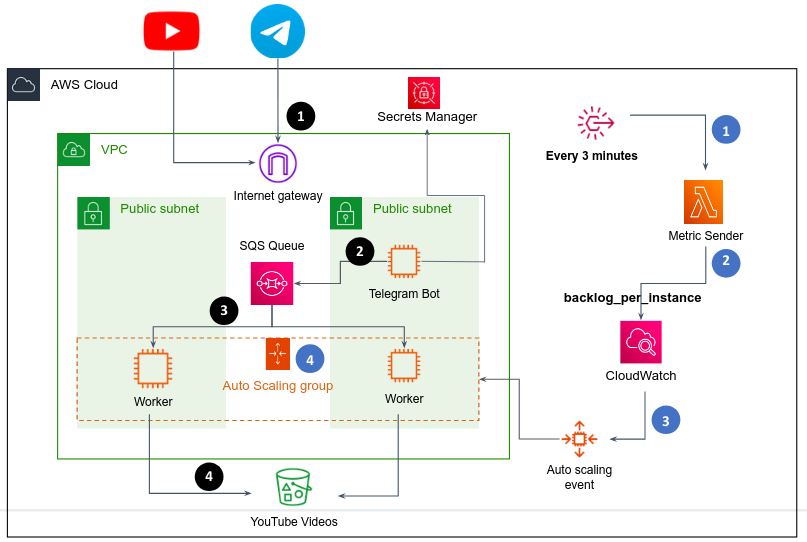
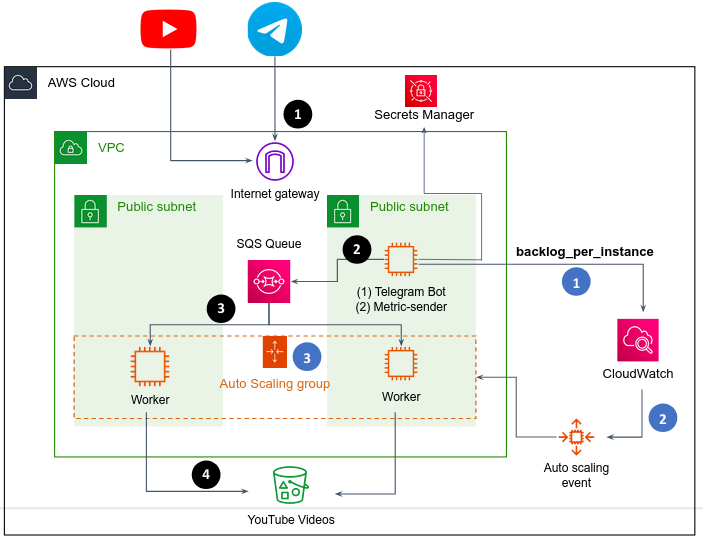
aws ex wip

Changed region(s): [[0.0, 0.0, 1.0, 1.0], [0.478, 0.8856, 0.5676, 0.9151]]

diff --git a/exercises/aws_ex1.md b/exercises/aws_ex1.md
@@ -18,8 +18,10 @@ So, the Bot service is a very lightweight app that can serve hundreds requests p
 In the other side, there are Worker service (run as a Docker container in the Worker EC2 instance) **consumes** jobs from the SQS queue (3-black) and does the hard work - to download the video from YouTube and upload it to S3 (4-black). When the Worker done with current job, it asks the SQS queue if it has another job for him. As long as there are jobs pending in the queue, a free Worker will consume and perform the job. In such way the Bot service pushes jobs to the SQS queue, making it "full", while the Worker service consumes jobs from the queue, making it "empty".
 
 But what if the rate in which the Bot service is pushing jobs to the queue is much higher than the rate the Worker completing jobs? In such case the queue will overflow...
-To solve that, we will create multiple workers that together consume jobs from the queue. How many workers? we will deploy a dynamic model **that auto-scale the number of workers** depending on the number of messages in the queue. When there are a lot of jobs in the queue, the autoscaler will provision many workers. When there are only a few jobs in the queue, the autoscaler will provision fewer workers.
-The Workers are part of an AutoScaling group, which is scaled in and out by a custom metric that the Metric Sender service (run as a Docker container in a Lambda function) writes to CloudWatch (2-blue) every 3 minutes (1-blue). CloudWatch will trigger an autoscale event (3-blue) when needed, which results in provisioning of another Worker instance, or terminate a redundant Worker instance (4-blue). 
+To solve that, we will create multiple workers that together consume jobs from the queue. How many workers? we will deploy a dynamic model **that auto-scale the number of workers** depending on the number of messages in the queue. 
+When there are a lot of jobs in the queue, the autoscaler will provision many workers. 
+When there are only a few jobs in the queue, the autoscaler will provision fewer workers.
+The Workers are part of an AutoScaling group, which is scaled in and out by a custom metric that the Metric Sender service (run as a Docker container as well on the same VM as the Bot service) writes to CloudWatch every 1 minute (1-blue). CloudWatch will trigger an autoscale event (2-blue) when needed, which results in provisioning of another Worker instance, or terminate a redundant Worker instance (3-blue). 
 
 The metric sent to CloudWatch can be called `BacklogPerInstance`, as it represents the number of jobs in the queue (jobs that was not consumed yet) per Worker instance.
 For example, assuming you have 5 workers up and running, and 100 messages in the queue, thus `BacklogPerInstance` equals 20, since each Worker instance has to consume ~20 messages to get the queue empty. For more information, read [here](https://docs.aws.amazon.com/autoscaling/ec2/userguide/as-using-sqs-queue.html).
@@ -47,18 +49,15 @@ git checkout -b microservices upstream/microservices
 
 From now on, throughout the exercise you should work on your `microservices` branch. 
 
-### Microservices review 
+### The TelegramAI repo structure 
+
+The repository structure is divided into services - each service under its own directory, while all services are sharing the `common` directory, which contains resources used by all services.
 
 1. `bot/app.py` - The Telegram bot code, similar to what you've implemented in the previous exercise. But this time, the bot doesn't download the videos itself, but sends a "job" to an SQS queue.
 2. `worker/app.py` - The Worker service continuously reads messages from the SQS queue and process them, which means download the video from YouTube and store it in a dedicated S3 bucket.
 3. `metric-sender/app.py` - The Metric Sender service calculate the `backlog_per_instance` metric and send it to CloudWatch.
 
-Each service has its own Dockerfile in the root directory of the repo: `bot.Dockerfile` for the bot, `worker.Dockerfile` for the worker, and `metric-sender.Dockerfile` for the metric-sender.
-For example, you can build the Metric Sender image by:
-```shell
-# execute from the root directory of the repo
-docker build -t metric-sender:1.0 -f metric-sender.Dockerfile .
-```
+Each service has its own Dockerfile. You are responsible to implement the Dockerfiles.
 
 ## Guidelines
 
@@ -76,12 +75,6 @@ docker build -t metric-sender:1.0 -f metric-sender.Dockerfile .
 
 ![](img/secretmanagertelegram.png)
 
-6. Create a Lambda function for the Metric-sender app.
-   1. In order to do so, first you need to build and push a Docker image on Elastic Container Registry (ECR). Create a private ECR.
-   2. On your local machine, build the image of the Metric Sender (according to `metric-sender.Dockerfile`. It's already implemented, no need to touch) and push it to your ECR registry. In [Amazon ECR console](https://console.aws.amazon.com/ecr/repositories), select the repository that you created and choose **View push commands** to view the steps to build and push an image from your local machine to your new repository\.
-   3. Create a Lambda function based on your container image.
-
-
 ### The Code
 
 7. Change `common/config.json` according to your resources in AWS. This file is being used by the different services, hence it is located under `common` directory, which contains resource that are shared by the services.  
@@ -98,21 +91,17 @@ docker build -t metric-sender:1.0 -f metric-sender.Dockerfile .
 
 9. After you've implemented the code changes, it is good idea to test everything locally. Run the `bot/app.py` service and a single worker `worker/app.py`. Make sure that when you send a message via Telegram, the Bot service produces a message to the SQS queue, and the Worker consumes the message, downloads the YouTube video and uploads it to S3.
 
-> Note   
-> All services should be run from the root directory of the project!
-> For the convenience of PyCharm users, the services run configurations already there, just choose the service and run it.   
-> ![](img/awsbotrc.png)
-
 ### Deploy the app in AWS 
 
-10. As mentioned above, all services are running as a Docker containers. Implement the Dockerfiles of `bot.Dockerfile` and `worker.Dockerfile`. No need to implement `metric-sender.Dockerfile`, it's already done.
+10. As mentioned above, all services are running as a Docker containers. Implement the Dockerfiles of the Bot, Worker and Metric-sender service.
 12. Deploy the Worker service to an EC2 instance
     1. Create an Amazon Linux EC2 instance.
     2. Install Docker.
     3. Get your repo code there (install Git if needed).
     4. Build the Worker image by:
        ```shell
-       docker build -t worker:1.0 -f worker.Dockerfile . 
+       cd worker
+       docker build -t worker:1.0 . 
        ```
     5. Run the container such that it starts automatically when the EC2 is launches:
        ```shell
@@ -120,13 +109,32 @@ docker build -t metric-sender:1.0 -f metric-sender.Dockerfile .
        ```
     6. Create an AMI from that instance and base your Launch Template on that AMI, such that when a new instance is created from the launch template, the Worker app will be up and running automatically.
 
-11. Deploy the Bot service on a single EC2 instance (this service is not part of the autoscaling group). It should be similar to Worker deployment - in a Docker container that restarts automatically on OS reboot.
+11. Deploy the Bot and the Metric-sender services **on a single EC2 instance** (those services are not part of the autoscaling group). It should be similar to Worker deployment - each service in a separate Docker container that restarts automatically on OS reboot.
 
 13. Use AWS cli to create a [target tracking scaling policy](https://docs.aws.amazon.com/autoscaling/ec2/userguide/as-using-sqs-queue.html#create-sqs-policies-cli) in your Autoscaling Group. `MetricName` and `Namespace` should correspond to the metric your Bot service is firing to CloudWatch. Give the `TargetValue` some value that you can test later (e.g. 10, which means if there are more than 10 messages per worker in the SQS queue, a scale up event will trigger).
 
 14. Make sure your services are given the right IAM role permissions.
 
 15. Test your application and make sure the autoscalig group react under load increase/decrease.
+
+## Lambda workers 
+
+We now want to examine another architecture of Bot-Workers dynamic:
+
+![](img/botaws3.png)
+
+Instead of scale EC2 instance with the Worker service deployed there, you will trigger Lambda functions when there are jobs in the SQS queue.
+
+1. Terminate the Metric Sender services such that to metrics will be sent to CloudWatch and the ASG doesn't scale anymore.
+2. Create a Docker based Lambda function for the Worker service.
+    1. In order to do so, first you need to build and push a Docker image on Elastic Container Registry (ECR). Using the AWS console, create a private ECR.
+    2. On your local machine, build the image of the Worker (according to `lambda.Dockerfile`. It's already implemented, no need to touch) and push it to your ECR registry. In [Amazon ECR console](https://console.aws.amazon.com/ecr/repositories), select the repository that you created and choose **View push commands** to view the steps to build and push an image from your local machine to your new repository\. You may use this command to build the image:
+       ```shell
+       cd worker && docker build -t worker:0.1 -f lambda.Dockerfile . 
+       ```
+    3. Create a Lambda function based on your container image you've just pushed to ECR.
+3. Define your SQS queue as a trigger that invokes your function. 
+4. Test your app in this new architecture, make sure the Lambda is triggered when you send a message to the Bot.
 
 ## Submission
 
